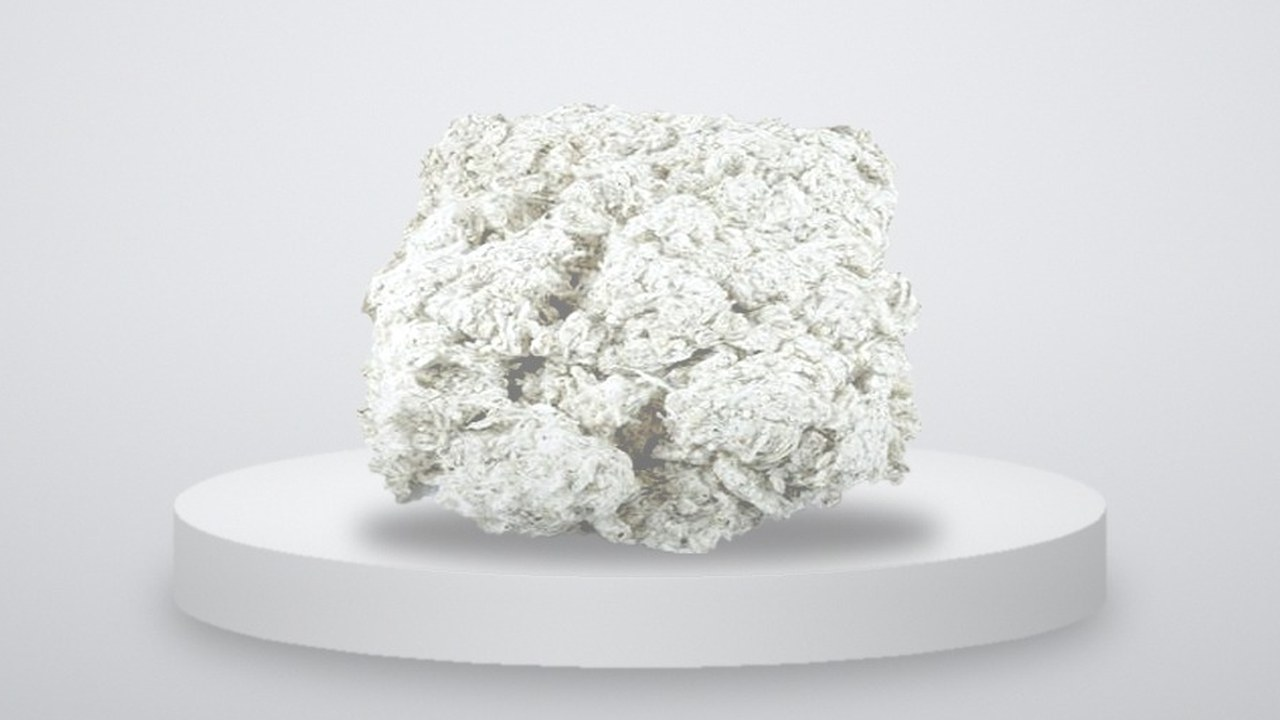
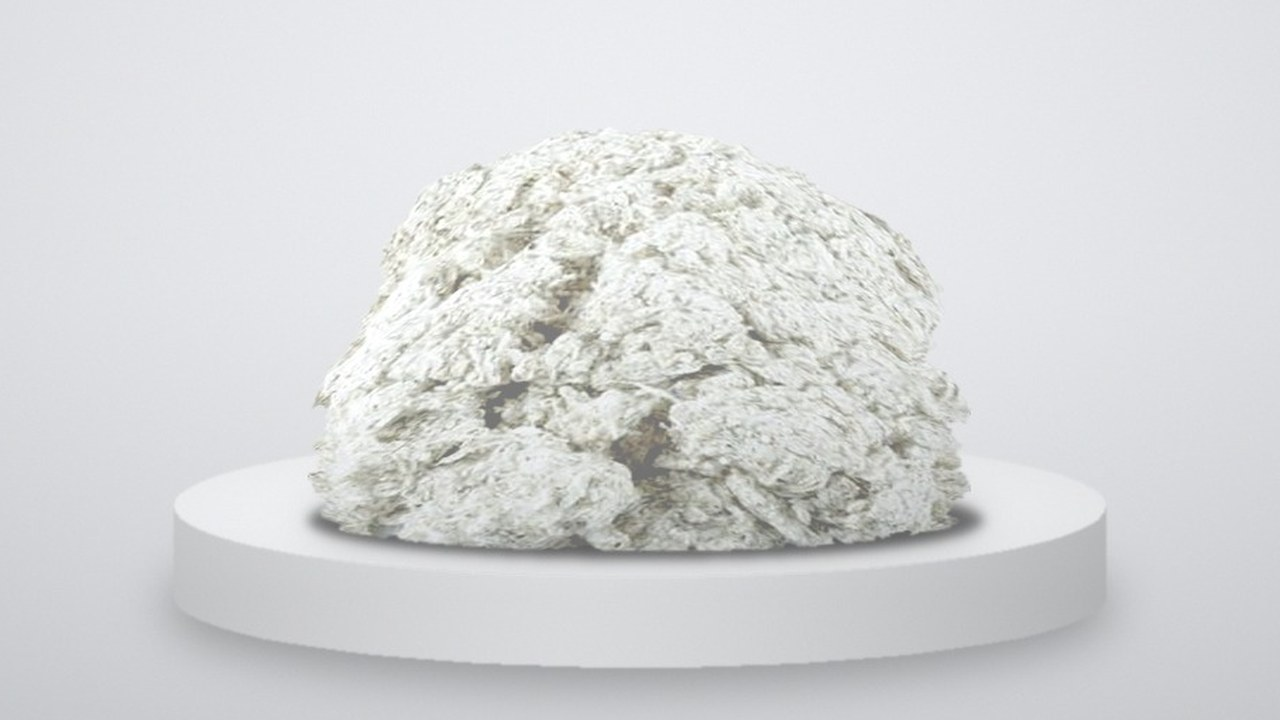
Export page: Card Flat Strips pile now rests on the stand
Reshaped into a mound whose base follows the stand's top edge, with
volume shading and a contact shadow.

Claude-Session: https://claude.ai/code/session_016sCuQnP49GbCoufDb1CL6c

Changed region(s): [[0.2188, 0.1528, 0.7812, 0.7944]]

diff --git a/docs/ru/export.html b/docs/ru/export.html
@@ -106,7 +106,7 @@
             <a class="link-arrow" href="contacts.html?product=licker#request">Оставить заявку<svg class="icon" viewBox="0 0 24 24" fill="none" stroke="currentColor" stroke-width="1.8" stroke-linecap="round" stroke-linejoin="round" aria-hidden="true"><path d="M5 12h14M13 6l6 6-6 6"/></svg></a>
           </article>
           <article class="item-card">
-            <div class="item-card-media has-photo"><img src="../assets/img/export-item-flat.jpg?v=58346ac0" alt="Кардный очес" loading="lazy"></div>
+            <div class="item-card-media has-photo"><img src="../assets/img/export-item-flat.jpg?v=5f719e4c" alt="Кардный очес" loading="lazy"></div>
             <h3>Кардный очес</h3>
             <p>Стандарт № 11 (Card Flat Strips). Волокнистые отходы, снимаемые со шляпок чесальной машины. Сырьё для угарной пряжи, ваты и нетканых материалов.</p>
             <a class="link-arrow" href="contacts.html?product=flat#request">Оставить заявку<svg class="icon" viewBox="0 0 24 24" fill="none" stroke="currentColor" stroke-width="1.8" stroke-linecap="round" stroke-linejoin="round" aria-hidden="true"><path d="M5 12h14M13 6l6 6-6 6"/></svg></a>

diff --git a/docs/tk/export.html b/docs/tk/export.html
@@ -106,7 +106,7 @@
             <a class="link-arrow" href="contacts.html?product=licker#request">Ýüz tutmak<svg class="icon" viewBox="0 0 24 24" fill="none" stroke="currentColor" stroke-width="1.8" stroke-linecap="round" stroke-linejoin="round" aria-hidden="true"><path d="M5 12h14M13 6l6 6-6 6"/></svg></a>
           </article>
           <article class="item-card">
-            <div class="item-card-media has-photo"><img src="../assets/img/export-item-flat.jpg?v=58346ac0" alt="Kard galyndysy" loading="lazy"></div>
+            <div class="item-card-media has-photo"><img src="../assets/img/export-item-flat.jpg?v=5f719e4c" alt="Kard galyndysy" loading="lazy"></div>
             <h3>Kard galyndysy</h3>
             <p>Standart № 11 (Card Flat Strips). Daraýjy maşynyň şlýapkalaryndan aýrylýan süýümli galyndylar. Galyndy ýüplügi, pamyk we dokalmadyk materiallar üçin çig mal.</p>
             <a class="link-arrow" href="contacts.html?product=flat#request">Ýüz tutmak<svg class="icon" viewBox="0 0 24 24" fill="none" stroke="currentColor" stroke-width="1.8" stroke-linecap="round" stroke-linejoin="round" aria-hidden="true"><path d="M5 12h14M13 6l6 6-6 6"/></svg></a>

diff --git a/docs/en/export.html b/docs/en/export.html
@@ -106,7 +106,7 @@
             <a class="link-arrow" href="contacts.html?product=licker#request">Send a request<svg class="icon" viewBox="0 0 24 24" fill="none" stroke="currentColor" stroke-width="1.8" stroke-linecap="round" stroke-linejoin="round" aria-hidden="true"><path d="M5 12h14M13 6l6 6-6 6"/></svg></a>
           </article>
           <article class="item-card">
-            <div class="item-card-media has-photo"><img src="../assets/img/export-item-flat.jpg?v=58346ac0" alt="Card Flat Strips" loading="lazy"></div>
+            <div class="item-card-media has-photo"><img src="../assets/img/export-item-flat.jpg?v=5f719e4c" alt="Card Flat Strips" loading="lazy"></div>
             <h3>Card Flat Strips</h3>
             <p>Standard No. 11. Fibrous waste stripped from the flats of the carding machine. Raw material for waste-spun yarn, cotton wool and nonwovens.</p>
             <a class="link-arrow" href="contacts.html?product=flat#request">Send a request<svg class="icon" viewBox="0 0 24 24" fill="none" stroke="currentColor" stroke-width="1.8" stroke-linecap="round" stroke-linejoin="round" aria-hidden="true"><path d="M5 12h14M13 6l6 6-6 6"/></svg></a>
